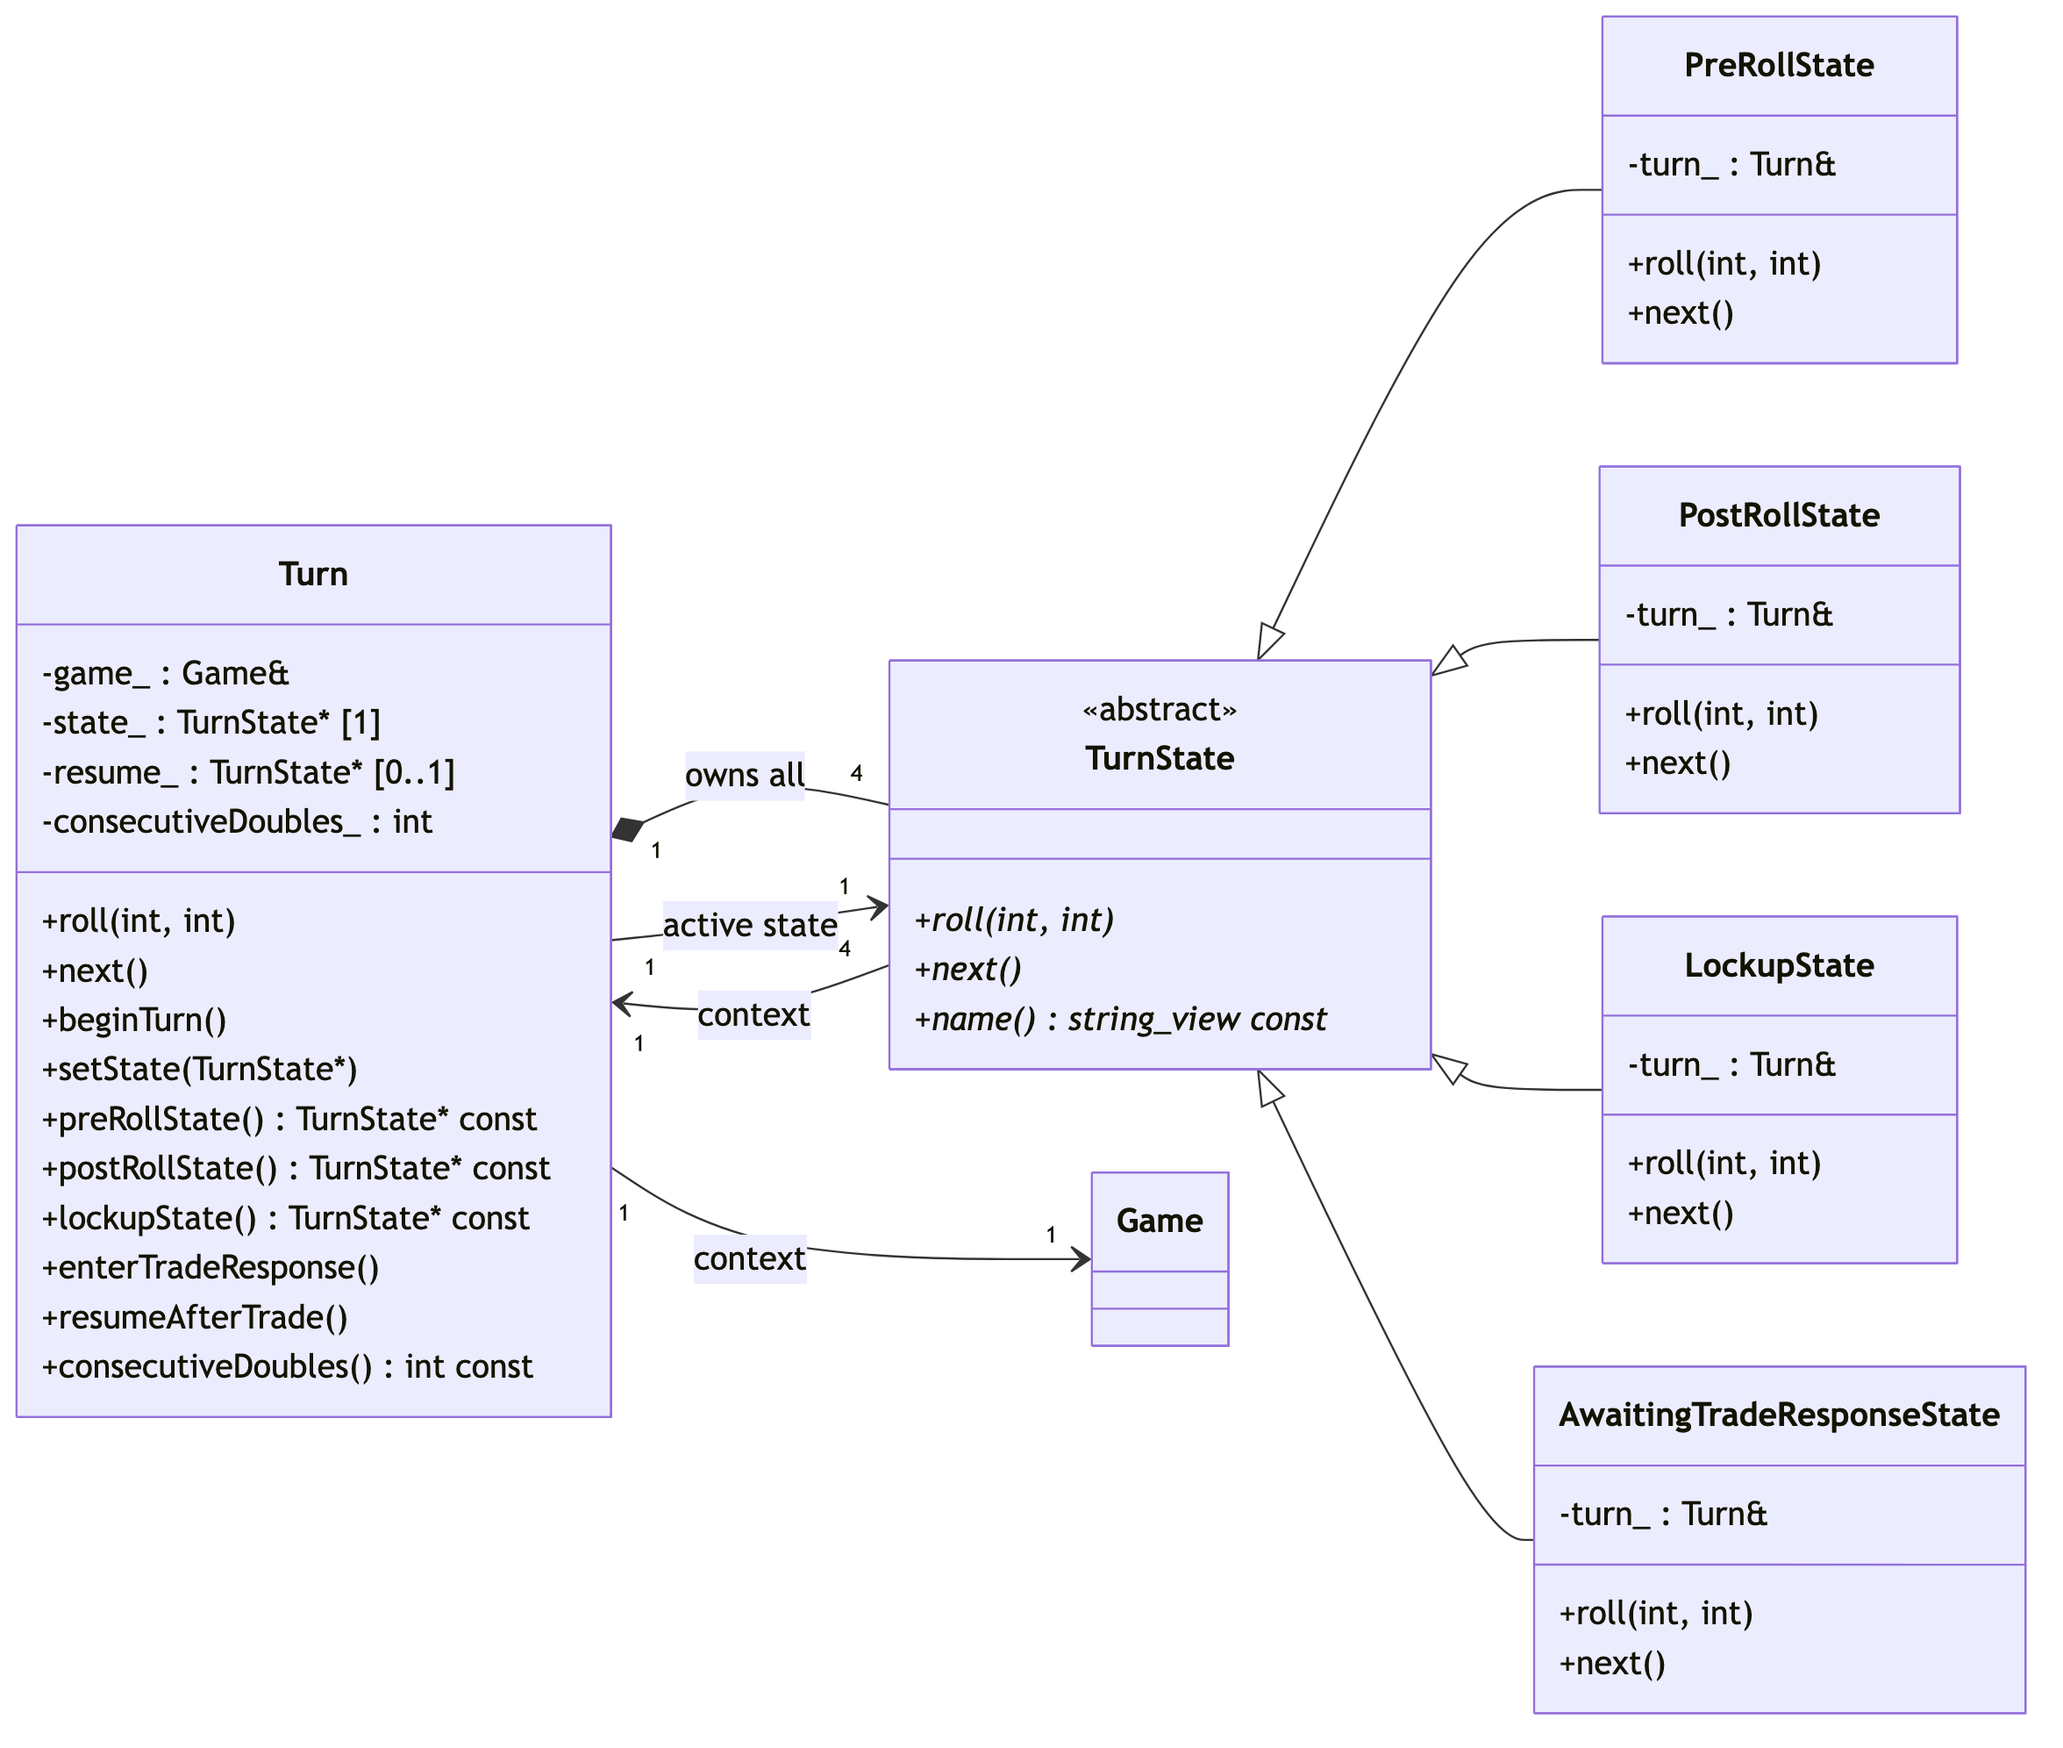
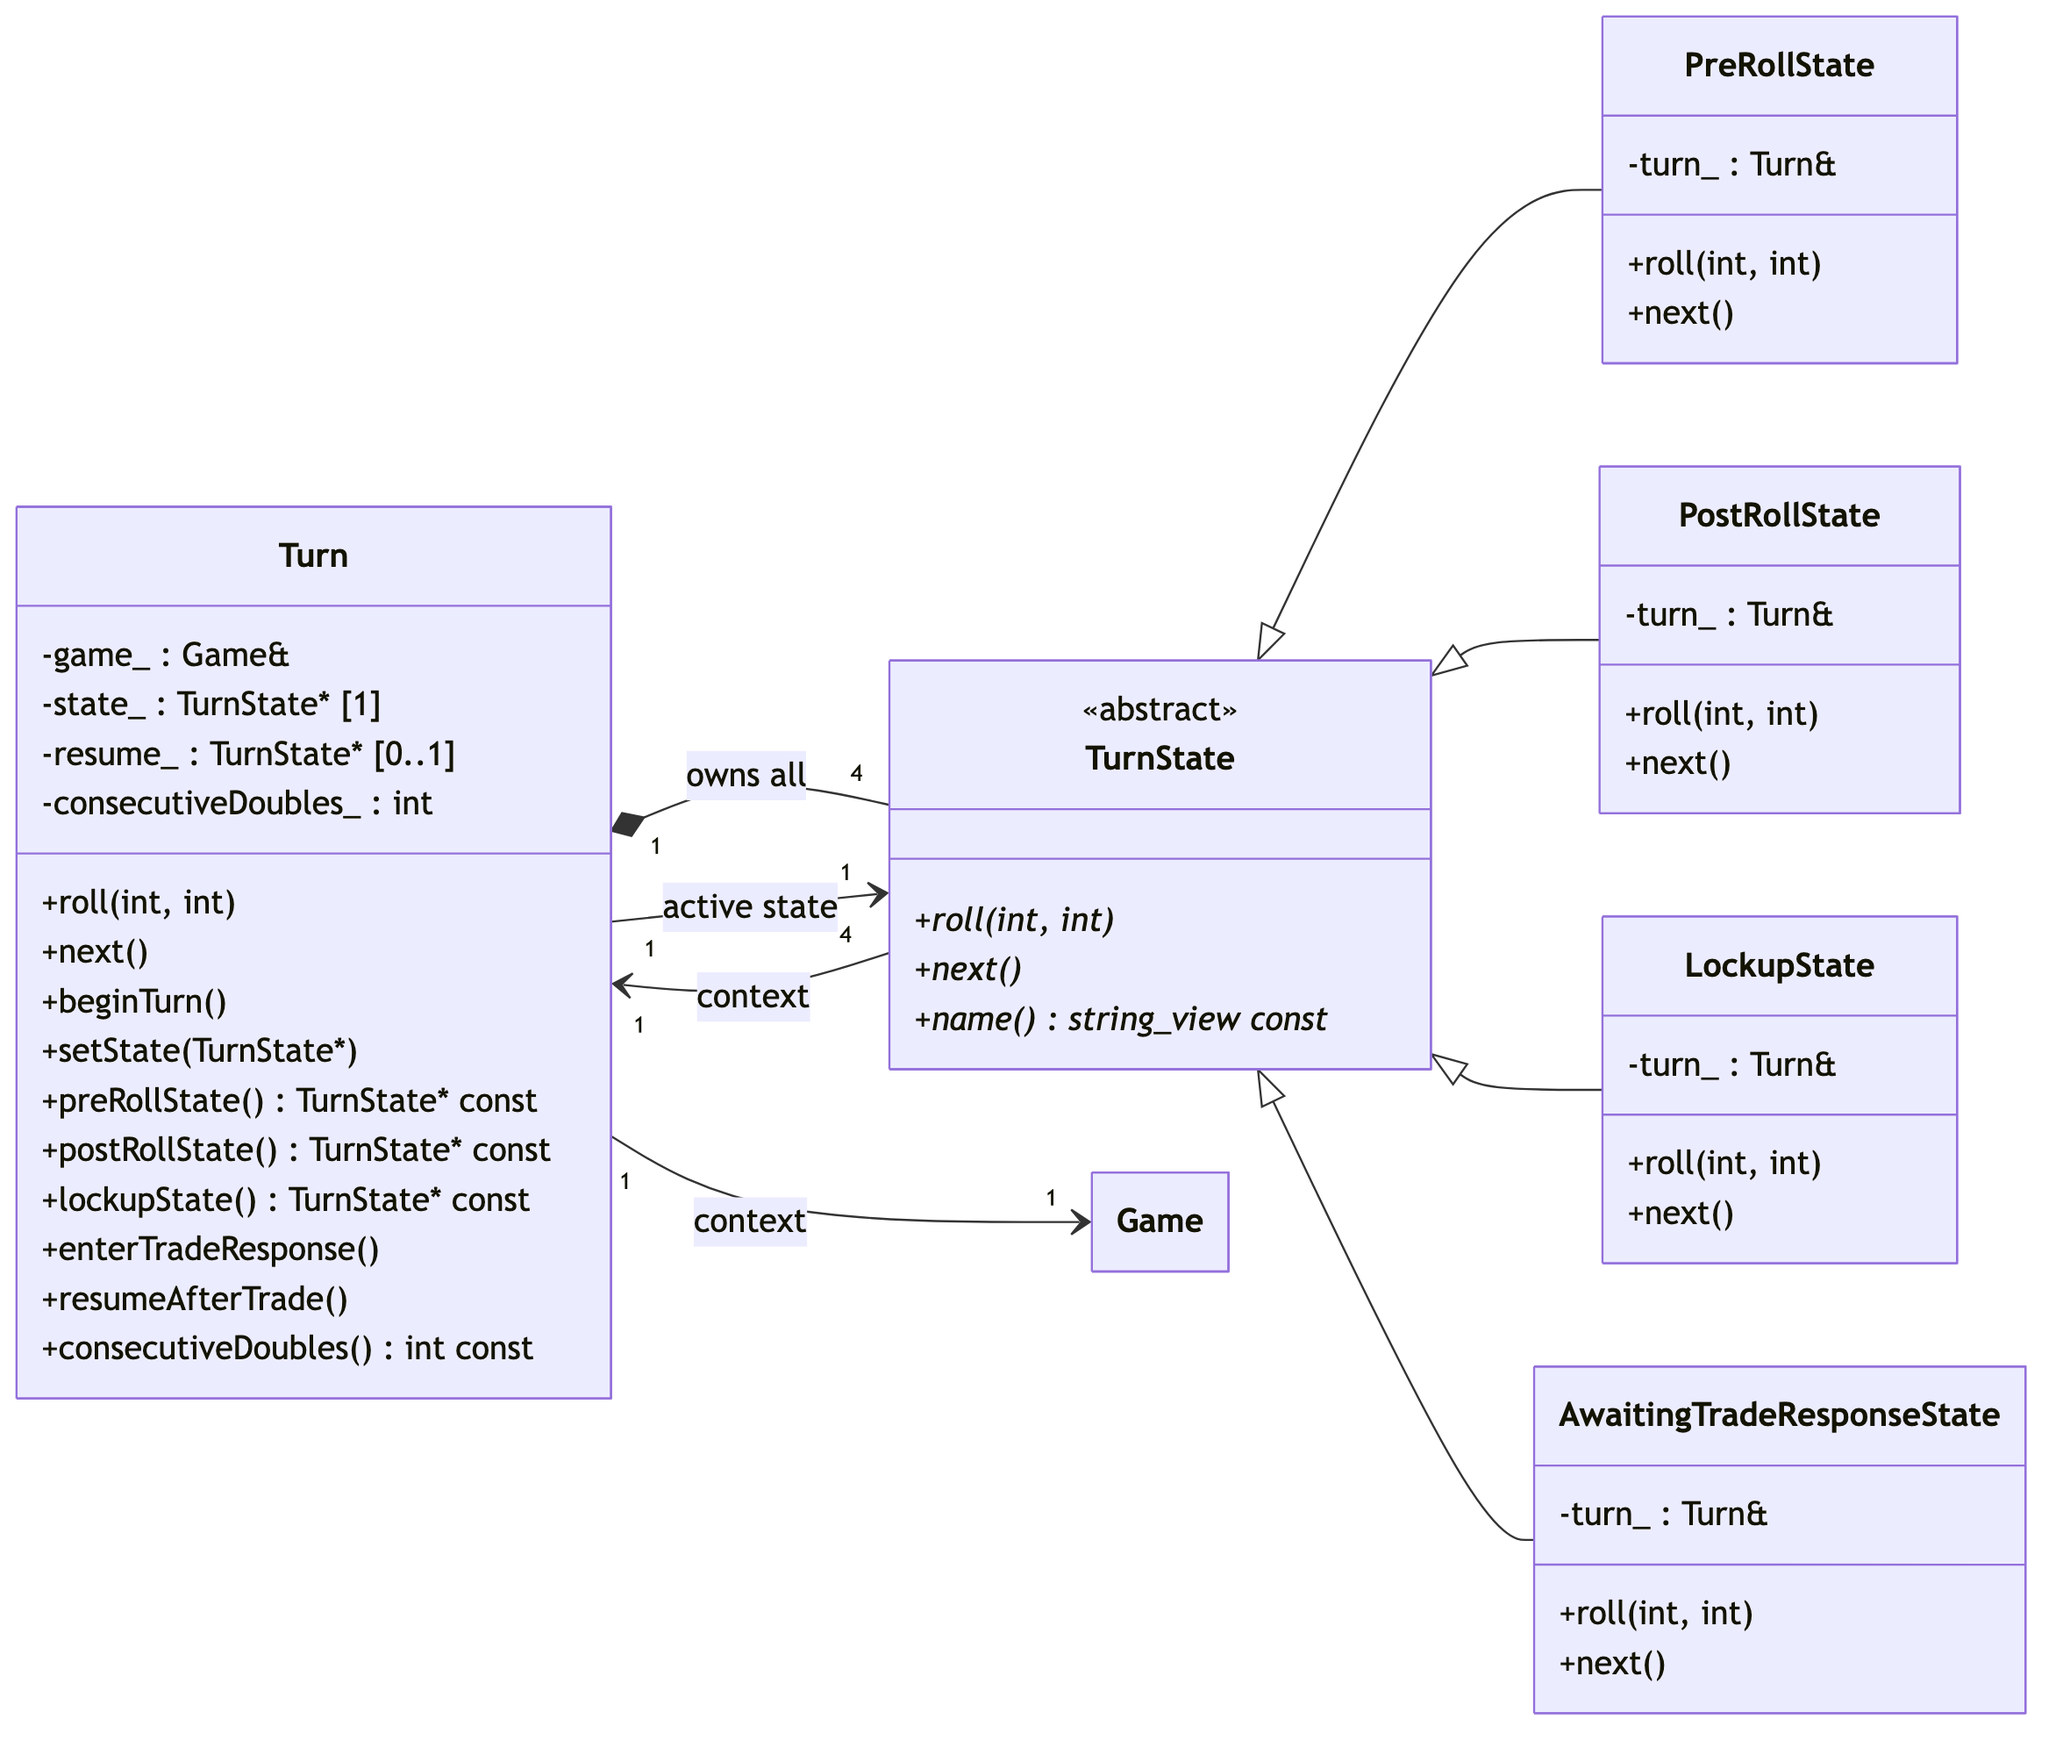
hide empty member boxes so name only classes render as single boxes

diff --git a/uml.md b/uml.md
@@ -28,6 +28,11 @@ relationships, the per-pattern diagrams are fully decorated.
 ## 1. Overview — the whole structure
 
 ```mermaid
+---
+config:
+  class:
+    hideEmptyMembersBox: true
+---
 classDiagram
     direction TB
 
@@ -91,6 +96,11 @@ classDiagram
 price to `computeToll`, the one varying step.
 
 ```mermaid
+---
+config:
+  class:
+    hideEmptyMembersBox: true
+---
 classDiagram
     direction TB
 
@@ -170,6 +180,11 @@ classDiagram
 offer interrupted, because an offer may be made before *or* after rolling.
 
 ```mermaid
+---
+config:
+  class:
+    hideEmptyMembersBox: true
+---
 classDiagram
     direction LR
 
@@ -251,6 +266,11 @@ command's receiver and arguments at construction, per Ch 20. A `nullptr` return 
 graceful path for a misspelled verb.
 
 ```mermaid
+---
+config:
+  class:
+    hideEmptyMembersBox: true
+---
 classDiagram
     direction LR
 
@@ -322,6 +342,11 @@ Strategy, the View registers as an Observer of the Model, and the View queries t
 directly when redrawing. The Controller only handles user-initiated events.
 
 ```mermaid
+---
+config:
+  class:
+    hideEmptyMembersBox: true
+---
 classDiagram
     direction LR
 
